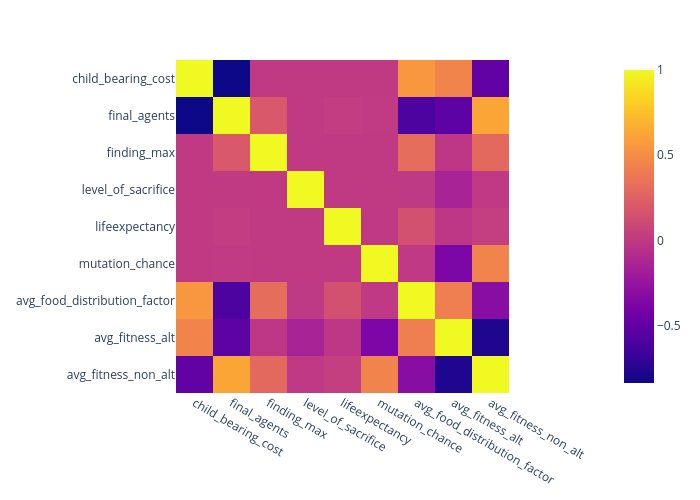
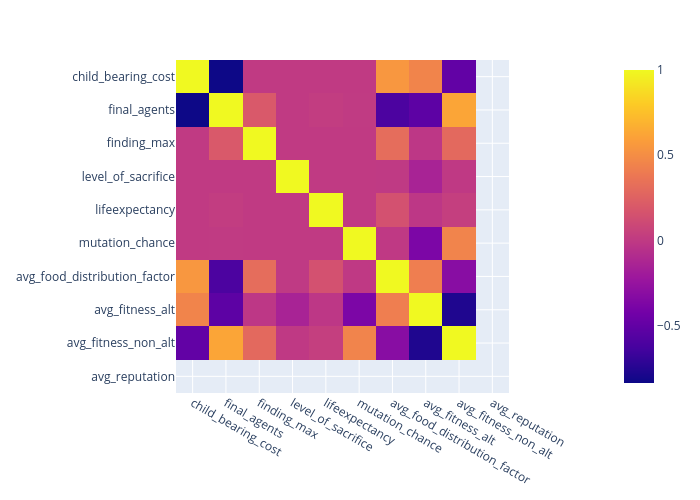
update graphs

Changed region(s): [[0.03, 0.12, 0.84, 0.96], [0.09, 0.15, 0.24, 0.18]]

diff --git a/results/simulation/network/network_analysis.tex b/results/simulation/network/network_analysis.tex
@@ -1,31 +1,40 @@
 \begin{table}[]
     \begin{tabular}{@{}lllllll@{}}
         \toprule
-                   & Step & Nodes & \begin{tabular}[c]{@{}l@{}}Avg. \\ Neighbors\end{tabular} & \begin{tabular}[c]{@{}l@{}}Characteristic \\ path length\end{tabular} & \begin{tabular}[c]{@{}l@{}}Clustering \\ coefficient\end{tabular} & Heterogeneity \\ \midrule
-        Benchmark  & 100  & 303   & 6,9                       & 4,5                       & 0,62                      & 0,39          \\
-                   & 200  & 375   & 5,7                       & 5,8                       & 0,62                      & 0,42          \\
-                   & 300  & 100   & 2,3                       & 2                         & 0,26                      & 0,5           \\
-                   & 400  & 20    & 3,6                       & 1,1                       & 0,9                       & 0,14          \\
-                   & 500  & 1     & -                         & -                         & -                         & -             \\\midrule
-        Greenbeard & 100  & 287   & 6,2                       & 5,1                       & 0,65                      & 0,41          \\
-        (no fake)  & 200  & 388   & 4,9                       & 6,8                       & 0,55                      & 0,42          \\
-                   & 300  & 380   & 5,42                      & 6,1                       & 0,57                      & 0,39          \\
-                   & 400  & 379   & 5,1                       & 6,4                       & 0,58                      & 0,41          \\
-                   & 500  & 383   & 5                         & 7                         & 0,6                       & 0,39          \\\midrule
-        Reputation & 100  & 56    & 3,1                       & 4,1                       & 0,3                       & 0,64          \\
-                   & 200  & 14    & 2,7                       & 2,7                       & 0,6                       & 0,32          \\
-                   & 300  & 6     & 2                         & 1,3                       & 0,58                      & 0,35          \\
-                   & 400  & 0     & -                         & -                         & -                         & -             \\\midrule
-        Group      & 100  & 124   & 6,2                       & 4,2                       & 0,75                      & 0,35          \\
-                   & 200  & 287   & 6,4                       & 5                         & 0,65                      & 0,39          \\
-                   & 300  & 348   & 5,1                       & 7,2                       & 0,64                      & 0,42          \\
-                   & 400  & 360   & 5                         & 7,5                       & 0,62                      & 0,38          \\
-                   & 500  & 361   & 5,4                       & 6,8                       & 0,61                      & 0,38          \\\midrule
-        Culture    & 100  & 87    & 5,6                       & 2,9                       & 0,72                      & 0,4           \\
-                   & 200  & 172   & 5,9                       & 4,6                       & 0,66                      & 0,4           \\
-                   & 300  & 386   & 4,9                       & 6,2                       & 0,52                      & 0,37          \\
-                   & 400  & 375   & 4,8                       & 6,6                       & 0,56                      & 0,37          \\
-                   & 500  & 392   & 5,2                       & 6,7                       & 0,59                      & 0,4           \\ \bottomrule
+& Step & Nodes & \begin{tabular}[c]{@{}l@{}}Avg. \\ neighbors\end{tabular} & \begin{tabular}[c]{@{}l@{}}Characteristic \\ path length\end{tabular} & \begin{tabular}[c]{@{}l@{}}Clustering \\ coefficient\end{tabular} & Heterogeneity \\ \midrule
+Benchmark      & 100  & 303   & 6.9                       & 4.5                       & 0.62                      & 0.39          \\
+& 200  & 375   & 5.7                       & 5.8                       & 0.62                      & 0.42          \\
+& 300  & 100   & 2.3                       & 2                         & 0.26                      & 0.5           \\
+& 400  & 20    & 3.6                       & 1.1                       & 0.9                       & 0.14          \\
+& 500  & 1     & -                         & -                         & -                         & -             \\\midrule
+Greenbeard     & 100  & 59    & 3.5                       & 5.4                       & 0.5                       & 0.44          \\
+(with fake)    & 200  & 2     & -                         & -                         & -                         & -             \\
+& 300  & 0     & -                         & -                         & -                         & -             \\\midrule
+Greenbeard     & 100  & 287   & 6.2                       & 5.1                       & 0.65                      & 0.41          \\
+(without fake) & 200  & 388   & 4.9                       & 6.8                       & 0.55                      & 0.42          \\
+& 300  & 380   & 5.42                      & 6.1                       & 0.57                      & 0.39          \\
+& 400  & 379   & 5.1                       & 6.4                       & 0.58                      & 0.41          \\
+& 500  & 383   & 5                         & 7                         & 0.6                       & 0.39          \\\midrule
+Kin selection  & 100  & 32    & 2.7                       & 3.9                       & 0.49                      & 0.53          \\
+& 200  & 47    & 5.3                       & 3.5                       & 0.78                      & 0.4           \\
+& 300  & 61    & 5.78                      & 3.5                       & 0.65                      & 0.45          \\
+& 400  & 116   & 5.5                       & 4.3                       & 0.63                      & 0.43          \\
+& 500  & 223   & 5.3                       & 5.2                       & 0.63                      & 0.43          \\\midrule
+Reputation     & 100  & 56    & 3.1                       & 4.1                       & 0.3                       & 0.64          \\
+& 200  & 14    & 2.7                       & 2.7                       & 0.6                       & 0.32          \\
+& 300  & 6     & 2                         & 1.3                       & 0.58                      & 0.35          \\
+& 400  & 0     & -                         & -                         & -                         & -             \\\midrule
+Group          & 100  & 124   & 6.2                       & 4.2                       & 0.75                      & 0.35          \\
+& 200  & 287   & 6.4                       & 5                         & 0.65                      & 0.39          \\
+& 300  & 348   & 5.1                       & 7.2                       & 0.64                      & 0.42          \\
+& 400  & 360   & 5                         & 7.5                       & 0.62                      & 0.38          \\
+& 500  & 361   & 5.4                       & 6.8                       & 0.61                      & 0.38          \\\midrule
+Culture        & 100  & 87    & 5.6                       & 2.9                       & 0.72                      & 0.4           \\
+& 200  & 172   & 5.9                       & 4.6                       & 0.66                      & 0.4           \\
+& 300  & 386   & 4.9                       & 6.2                       & 0.52                      & 0.37          \\
+& 400  & 375   & 4.8                       & 6.6                       & 0.56                      & 0.37          \\
+& 500  & 392   & 5.2                       & 6.7                       & 0.59                      & 0.4           \\ \bottomrule
     \end{tabular}
-    \caption[Analysis of the network characteristics of all models]{Analysis of the network characteristics of all models for the first 500 steps with $child$ $bearing$ $cost = 6$, $life$ $expectancy = (50,70)$, $mutation$ $chance = 0.05$, $finding$ $max = 3$, $level$ $of$ $sacrifice = 0.5$, $min$ $relationship = 1$, $group$ $number = 5$, and $migration$ $rate = 0.05$. }
+\caption[Network characteristics of all models]{Network characteristics of all models for the first 500 steps with $child$ $bearing$ $cost = 6$, $life$ $expectancy = (60,70)$, $mutation$ $chance = 0.05$, $finding$ $max = 3$, $level$ $of$ $sacrifice = 0.5$, $min$ $relationship = 1$, $group$ $number = 5$, and $migration$ $rate = 0.05$. The term \textit{average neighbors} indicates the average connectivity of a node in the network. \textit{Characteristic path length} gives the expected distance between two connected nodes. The \textit{clustering coefficient} is the average of the clustering coefficients for all nodes in the network. The \textit{heterogeneity} reflects the tendency of a network to contain hub nodes. \cite{NetworkAnalyzer.18.05.2018}}
+\label{tab:network-analysis}
 \end{table}

diff --git a/results/simulation/culture/correlations/correlations.tex b/results/simulation/culture/correlations/correlations.tex
@@ -1,18 +1,17 @@
-\begin{tabular}{lllllllllllll}
+\begin{tabular}{llllllllllll}
 \toprule
-{} &       cbc &        fa &        fm &        gn &       los &        l &       mr &       mc &      afdf &       afa &      afna &      ar \\
+{} &       cbc &        fa &        fm &        gn &       los &        l &       mr &       mc &      afdf &       afa &      afna  \\
 \midrule
-child\_bearing\_cost (cbc)            &    1.0*** &  -0.66*** &       0.0 &       0.0 &      -0.0 &     -0.0 &      0.0 &     -0.0 &   0.78*** &    0.1*** &      0.02 &     nan \\
-final\_agents (fa)                   &  -0.66*** &    1.0*** &   0.47*** &  -0.04*** &      0.01 &  0.14*** &  0.04*** &      0.0 &  -0.81*** &   0.29*** &   0.34*** &     nan \\
-finding\_max (fm)                    &       0.0 &   0.47*** &    1.0*** &       0.0 &       0.0 &      0.0 &     -0.0 &      0.0 &  -0.27*** &   0.56*** &   0.36*** &     nan \\
-group\_number (gn)                   &       0.0 &  -0.04*** &       0.0 &    1.0*** &       0.0 &      0.0 &      0.0 &      0.0 &   0.04*** &  -0.06*** &  -0.04*** &     nan \\
-level\_of\_sacrifice (los)            &      -0.0 &      0.01 &       0.0 &       0.0 &    1.0*** &      0.0 &      0.0 &      0.0 &  -0.05*** &   0.05*** &      0.02 &     nan \\
-lifeexpectancy (l)                  &      -0.0 &   0.14*** &       0.0 &       0.0 &       0.0 &   1.0*** &     -0.0 &      0.0 &       0.0 &   0.07*** &   0.08*** &     nan \\
-migration\_rate (mr)                 &       0.0 &   0.04*** &      -0.0 &       0.0 &       0.0 &     -0.0 &   1.0*** &      0.0 &   -0.03** &   0.07*** &    0.04** &     nan \\
-mutation\_chance (mc)                &      -0.0 &       0.0 &       0.0 &       0.0 &       0.0 &      0.0 &      0.0 &   1.0*** &   0.05*** &     -0.02 &   0.42*** &     nan \\
-avg\_food\_distribution\_factor (afdf) &   0.78*** &  -0.81*** &  -0.27*** &   0.04*** &  -0.05*** &      0.0 &  -0.03** &  0.05*** &    1.0*** &   -0.1*** &  -0.06*** &     nan \\
-avg\_fitness\_alt (afa)               &    0.1*** &   0.29*** &   0.56*** &  -0.06*** &   0.05*** &  0.07*** &  0.07*** &    -0.02 &   -0.1*** &    1.0*** &   0.29*** &     nan \\
-avg\_fitness\_non\_alt (afna)          &      0.02 &   0.34*** &   0.36*** &  -0.04*** &      0.02 &  0.08*** &   0.04** &  0.42*** &  -0.06*** &   0.29*** &    1.0*** &     nan \\
-avg\_reputation (ar)                 &       nan &       nan &       nan &       nan &       nan &      nan &      nan &      nan &       nan &       nan &       nan &  nan*** \\
+child\_bearing\_cost (cbc)            &    1.0*** &  -0.66*** &       0.0 &       0.0 &      -0.0 &     -0.0 &      0.0 &     -0.0 &   0.78*** &    0.1*** &      0.02  \\
+final\_agents (fa)                   &  -0.66*** &    1.0*** &   0.47*** &  -0.04*** &      0.01 &  0.14*** &  0.04*** &      0.0 &  -0.81*** &   0.29*** &   0.34***  \\
+finding\_max (fm)                    &       0.0 &   0.47*** &    1.0*** &       0.0 &       0.0 &      0.0 &     -0.0 &      0.0 &  -0.27*** &   0.56*** &   0.36***  \\
+group\_number (gn)                   &       0.0 &  -0.04*** &       0.0 &    1.0*** &       0.0 &      0.0 &      0.0 &      0.0 &   0.04*** &  -0.06*** &  -0.04***  \\
+level\_of\_sacrifice (los)            &      -0.0 &      0.01 &       0.0 &       0.0 &    1.0*** &      0.0 &      0.0 &      0.0 &  -0.05*** &   0.05*** &      0.02  \\
+lifeexpectancy (l)                  &      -0.0 &   0.14*** &       0.0 &       0.0 &       0.0 &   1.0*** &     -0.0 &      0.0 &       0.0 &   0.07*** &   0.08***  \\
+migration\_rate (mr)                 &       0.0 &   0.04*** &      -0.0 &       0.0 &       0.0 &     -0.0 &   1.0*** &      0.0 &   -0.03** &   0.07*** &    0.04**  \\
+mutation\_chance (mc)                &      -0.0 &       0.0 &       0.0 &       0.0 &       0.0 &      0.0 &      0.0 &   1.0*** &   0.05*** &     -0.02 &   0.42***  \\
+avg\_food\_distribution\_factor (afdf) &   0.78*** &  -0.81*** &  -0.27*** &   0.04*** &  -0.05*** &      0.0 &  -0.03** &  0.05*** &    1.0*** &   -0.1*** &  -0.06***  \\
+avg\_fitness\_alt (afa)               &    0.1*** &   0.29*** &   0.56*** &  -0.06*** &   0.05*** &  0.07*** &  0.07*** &    -0.02 &   -0.1*** &    1.0*** &   0.29***  \\
+avg\_fitness\_non\_alt (afna)          &      0.02 &   0.34*** &   0.36*** &  -0.04*** &      0.02 &  0.08*** &   0.04** &  0.42*** &  -0.06*** &   0.29*** &    1.0***  \\
 \bottomrule
 \end{tabular}

diff --git a/results/simulation/group/correlations/correlations.tex b/results/simulation/group/correlations/correlations.tex
@@ -1,18 +1,17 @@
-\begin{tabular}{lllllllllllll}
+\begin{tabular}{llllllllllll}
 \toprule
-{} &       cbc &        fa &        fm &       gn &       los &        l &      mr &       mc &      afdf &       afa &      afna &      ar \\
+{} &       cbc &        fa &        fm &       gn &       los &        l &      mr &       mc &      afdf &       afa &      afna  \\
 \midrule
-child\_bearing\_cost (cbc)            &    1.0*** &  -0.65*** &      -0.0 &     -0.0 &       0.0 &     -0.0 &     0.0 &     -0.0 &   0.79*** &    0.1*** &   0.04*** &     nan \\
-final\_agents (fa)                   &  -0.65*** &    1.0*** &    0.5*** &    -0.02 &      0.01 &  0.14*** &    0.02 &     -0.0 &  -0.81*** &   0.32*** &   0.34*** &     nan \\
-finding\_max (fm)                    &      -0.0 &    0.5*** &    1.0*** &     -0.0 &      -0.0 &     -0.0 &     0.0 &      0.0 &  -0.26*** &    0.6*** &   0.37*** &     nan \\
-group\_number (gn)                   &      -0.0 &     -0.02 &      -0.0 &   1.0*** &       0.0 &      0.0 &     0.0 &     -0.0 &      0.02 &   -0.04** &     -0.02 &     nan \\
-level\_of\_sacrifice (los)            &       0.0 &      0.01 &      -0.0 &      0.0 &    1.0*** &      0.0 &    -0.0 &     -0.0 &  -0.05*** &   0.07*** &      0.02 &     nan \\
-lifeexpectancy (l)                  &      -0.0 &   0.14*** &      -0.0 &      0.0 &       0.0 &   1.0*** &     0.0 &     -0.0 &      0.01 &   0.09*** &   0.08*** &     nan \\
-migration\_rate (mr)                 &       0.0 &      0.02 &       0.0 &      0.0 &      -0.0 &      0.0 &  1.0*** &     -0.0 &     -0.01 &     0.03* &      0.02 &     nan \\
-mutation\_chance (mc)                &      -0.0 &      -0.0 &       0.0 &     -0.0 &      -0.0 &     -0.0 &    -0.0 &   1.0*** &   0.06*** &     -0.02 &   0.43*** &     nan \\
-avg\_food\_distribution\_factor (afdf) &   0.79*** &  -0.81*** &  -0.26*** &     0.02 &  -0.05*** &     0.01 &   -0.01 &  0.06*** &    1.0*** &  -0.07*** &  -0.04*** &     nan \\
-avg\_fitness\_alt (afa)               &    0.1*** &   0.32*** &    0.6*** &  -0.04** &   0.07*** &  0.09*** &   0.03* &    -0.02 &  -0.07*** &    1.0*** &    0.3*** &     nan \\
-avg\_fitness\_non\_alt (afna)          &   0.04*** &   0.34*** &   0.37*** &    -0.02 &      0.02 &  0.08*** &    0.02 &  0.43*** &  -0.04*** &    0.3*** &    1.0*** &     nan \\
-avg\_reputation (ar)                 &       nan &       nan &       nan &      nan &       nan &      nan &     nan &      nan &       nan &       nan &       nan &  nan*** \\
+child\_bearing\_cost (cbc)            &    1.0*** &  -0.65*** &      -0.0 &     -0.0 &       0.0 &     -0.0 &     0.0 &     -0.0 &   0.79*** &    0.1*** &   0.04***  \\
+final\_agents (fa)                   &  -0.65*** &    1.0*** &    0.5*** &    -0.02 &      0.01 &  0.14*** &    0.02 &     -0.0 &  -0.81*** &   0.32*** &   0.34***  \\
+finding\_max (fm)                    &      -0.0 &    0.5*** &    1.0*** &     -0.0 &      -0.0 &     -0.0 &     0.0 &      0.0 &  -0.26*** &    0.6*** &   0.37***  \\
+group\_number (gn)                   &      -0.0 &     -0.02 &      -0.0 &   1.0*** &       0.0 &      0.0 &     0.0 &     -0.0 &      0.02 &   -0.04** &     -0.02  \\
+level\_of\_sacrifice (los)            &       0.0 &      0.01 &      -0.0 &      0.0 &    1.0*** &      0.0 &    -0.0 &     -0.0 &  -0.05*** &   0.07*** &      0.02  \\
+lifeexpectancy (l)                  &      -0.0 &   0.14*** &      -0.0 &      0.0 &       0.0 &   1.0*** &     0.0 &     -0.0 &      0.01 &   0.09*** &   0.08***  \\
+migration\_rate (mr)                 &       0.0 &      0.02 &       0.0 &      0.0 &      -0.0 &      0.0 &  1.0*** &     -0.0 &     -0.01 &     0.03* &      0.02  \\
+mutation\_chance (mc)                &      -0.0 &      -0.0 &       0.0 &     -0.0 &      -0.0 &     -0.0 &    -0.0 &   1.0*** &   0.06*** &     -0.02 &   0.43***  \\
+avg\_food\_distribution\_factor (afdf) &   0.79*** &  -0.81*** &  -0.26*** &     0.02 &  -0.05*** &     0.01 &   -0.01 &  0.06*** &    1.0*** &  -0.07*** &  -0.04***  \\
+avg\_fitness\_alt (afa)               &    0.1*** &   0.32*** &    0.6*** &  -0.04** &   0.07*** &  0.09*** &   0.03* &    -0.02 &  -0.07*** &    1.0*** &    0.3***  \\
+avg\_fitness\_non\_alt (afna)          &   0.04*** &   0.34*** &   0.37*** &    -0.02 &      0.02 &  0.08*** &    0.02 &  0.43*** &  -0.04*** &    0.3*** &    1.0***  \\
 \bottomrule
 \end{tabular}

diff --git a/results/simulation/greenbeard/correlations/correlations.tex b/results/simulation/greenbeard/correlations/correlations.tex
@@ -1,17 +1,16 @@
-\begin{tabular}{llllllllllll}
+\begin{tabular}{lllllllllll}
     \toprule
-    {}                                     & afg      & cbc      & fa       & fm       & los      & l       & mc       & afdf     & afa      & afna     & ar     \\
+    {}                                     & afg      & cbc      & fa       & fm       & los      & l       & mc       & afdf     & afa      & afna          \\
     \midrule
-    allow\_fake\_greenbeards (afg)         & 1.0***   & -0.0     & -0.17*** & -0.0     & 0.0      & -0.0    & 0.0      & 0.41***  & -0.26*** & -0.26*** & nan    \\
-    child\_bearing\_cost (cbc)             & -0.0     & 1.0***   & -0.73*** & -0.0     & 0.0      & 0.0     & 0.0      & 0.53***  & 0.32***  & 0.1***   & nan    \\
-    final\_agents (fa)                     & -0.17*** & -0.73*** & 1.0***   & 0.35***  & 0.0      & 0.07*** & -0.0     & -0.6***  & -0.32*** & 0.22***  & nan    \\
-    finding\_max (fm)                      & -0.0     & -0.0     & 0.35***  & 1.0***   & 0.0      & 0.0     & 0.0      & -0.18*** & -0.01    & 0.25***  & nan    \\
-    level\_of\_sacrifice (los)             & 0.0      & 0.0      & 0.0      & 0.0      & 1.0***   & 0.0     & -0.0     & -0.03**  & -0.09*** & 0.01     & nan    \\
-    lifeexpectancy (l)                     & -0.0     & 0.0      & 0.07***  & 0.0      & 0.0      & 1.0***  & 0.0      & 0.08***  & -0.01    & 0.1***   & nan    \\
-    mutation\_chance (mc)                  & 0.0      & 0.0      & -0.0     & 0.0      & -0.0     & 0.0     & 1.0***   & 0.02*    & -0.26*** & 0.27***  & nan    \\
-    avg\_food\_distribution\_factor (afdf) & 0.41***  & 0.53***  & -0.6***  & -0.18*** & -0.03**  & 0.08*** & 0.02*    & 1.0***   & -0.04**  & -0.05***  & nan    \\
-    avg\_fitness\_alt (afa)                & -0.26*** & 0.32***  & -0.32*** & -0.01    & -0.09*** & -0.01   & -0.26*** & -0.04**  & 1.0***   & 0.07***  & nan    \\
-    avg\_fitness\_non\_alt (afna)          & -0.26*** & 0.1***   & 0.22***  & 0.25***  & 0.01     & 0.1***  & 0.27***  & -0.05*** & 0.07***  & 1.0***   & nan    \\
-    avg\_reputation (ar)                   & nan      & nan      & nan      & nan      & nan      & nan     & nan      & nan      & nan      & nan      & nan*** \\
+    allow\_fake\_greenbeards (afg)         & 1.0***   & -0.0     & -0.17*** & -0.0     & 0.0      & -0.0    & 0.0      & 0.41***  & -0.26*** & -0.26***     \\
+    child\_bearing\_cost (cbc)             & -0.0     & 1.0***   & -0.73*** & -0.0     & 0.0      & 0.0     & 0.0      & 0.53***  & 0.32***  & 0.1***       \\
+    final\_agents (fa)                     & -0.17*** & -0.73*** & 1.0***   & 0.35***  & 0.0      & 0.07*** & -0.0     & -0.6***  & -0.32*** & 0.22***      \\
+    finding\_max (fm)                      & -0.0     & -0.0     & 0.35***  & 1.0***   & 0.0      & 0.0     & 0.0      & -0.18*** & -0.01    & 0.25***      \\
+    level\_of\_sacrifice (los)             & 0.0      & 0.0      & 0.0      & 0.0      & 1.0***   & 0.0     & -0.0     & -0.03**  & -0.09*** & 0.01         \\
+    lifeexpectancy (l)                     & -0.0     & 0.0      & 0.07***  & 0.0      & 0.0      & 1.0***  & 0.0      & 0.08***  & -0.01    & 0.1***       \\
+    mutation\_chance (mc)                  & 0.0      & 0.0      & -0.0     & 0.0      & -0.0     & 0.0     & 1.0***   & 0.02*    & -0.26*** & 0.27***      \\
+    avg\_food\_distribution\_factor (afdf) & 0.41***  & 0.53***  & -0.6***  & -0.18*** & -0.03**  & 0.08*** & 0.02*    & 1.0***   & -0.04**  & -0.05***      \\
+    avg\_fitness\_alt (afa)                & -0.26*** & 0.32***  & -0.32*** & -0.01    & -0.09*** & -0.01   & -0.26*** & -0.04**  & 1.0***   & 0.07***      \\
+    avg\_fitness\_non\_alt (afna)          & -0.26*** & 0.1***   & 0.22***  & 0.25***  & 0.01     & 0.1***  & 0.27***  & -0.05*** & 0.07***  & 1.0***       \\
     \bottomrule
 \end{tabular}

diff --git a/results/simulation/kinselection/correlations/correlations.tex b/results/simulation/kinselection/correlations/correlations.tex
@@ -1,17 +1,16 @@
-\begin{tabular}{llllllllllll}
+\begin{tabular}{lllllllllll}
     \toprule
-    {}                                     & cbc      & fa       & fm      & los      & l       & mr      & mc       & afdf     & afa      & afna     & ar     \\
+{}                                     & cbc      & fa       & fm      & los      & l       & mr      & mc       & afdf     & afa      & afna          \\
     \midrule
-    child\_bearing\_cost (cbc)             & 1.0***   & -0.78*** & -0.0    & 0.0      & -0.0    & -0.0    & 0.0      & 0.5***   & 0.33***  & -0.03*** & nan    \\
-    final\_agents (fa)                     & -0.78*** & 1.0***   & 0.32*** & -0.01    & 0.12*** & -0.01   & -0.0     & -0.52*** & -0.35*** & 0.25***  & nan    \\
-    finding\_max (fm)                      & -0.0     & 0.32***  & 1.0***  & 0.0      & -0.0    & 0.0     & -0.0     & 0.34***  & 0.14***  & 0.27***  & nan    \\
-    level\_of\_sacrifice (los)             & 0.0      & -0.01    & 0.0     & 1.0***   & -0.0    & 0.0     & 0.0      & -0.0     & -0.04*** & -0.02*   & nan    \\
-    lifeexpectancy (l)                     & -0.0     & 0.12***  & -0.0    & -0.0     & 1.0***  & -0.0    & 0.0      & 0.06***  & -0.1***  & 0.1***   & nan    \\
-    min\_relationship (mr)                 & -0.0     & -0.01    & 0.0     & 0.0      & -0.0    & 1.0***  & 0.0      & 0.06***  & 0.14***  & 0.04***  & nan    \\
-    mutation\_chance (mc)                  & 0.0      & -0.0     & -0.0    & 0.0      & 0.0     & 0.0     & 1.0***   & -0.01    & -0.23*** & -0.08*** & nan    \\
-    avg\_food\_distribution\_factor (afdf) & 0.5***   & -0.52*** & 0.34*** & -0.0     & 0.06*** & 0.06*** & -0.01    & 1.0***   & 0.47***  & 0.15***  & nan    \\
-    avg\_fitness\_alt (afa)                & 0.33***  & -0.35*** & 0.14*** & -0.04*** & -0.1*** & 0.14*** & -0.23*** & 0.47***  & 1.0***   & 0.04***  & nan    \\
-    avg\_fitness\_non\_alt (afna)          & -0.03*** & 0.25***  & 0.27*** & -0.02*   & 0.1***  & 0.04*** & -0.08*** & 0.15***  & 0.04***  & 1.0***   & nan    \\
-    avg\_reputation (ar)                   & nan      & nan      & nan     & nan      & nan     & nan     & nan      & nan      & nan      & nan      & nan*** \\
+child\_bearing\_cost (cbc)             & 1.0***   & -0.78*** & -0.0    & 0.0      & -0.0    & -0.0    & 0.0      & 0.5***   & 0.33***  & -0.03***     \\
+final\_agents (fa)                     & -0.78*** & 1.0***   & 0.32*** & -0.01    & 0.12*** & -0.01   & -0.0     & -0.52*** & -0.35*** & 0.25***      \\
+finding\_max (fm)                      & -0.0     & 0.32***  & 1.0***  & 0.0      & -0.0    & 0.0     & -0.0     & 0.34***  & 0.14***  & 0.27***      \\
+level\_of\_sacrifice (los)             & 0.0      & -0.01    & 0.0     & 1.0***   & -0.0    & 0.0     & 0.0      & -0.0     & -0.04*** & -0.02*       \\
+lifeexpectancy (l)                     & -0.0     & 0.12***  & -0.0    & -0.0     & 1.0***  & -0.0    & 0.0      & 0.06***  & -0.1***  & 0.1***       \\
+min\_relationship (mr)                 & -0.0     & -0.01    & 0.0     & 0.0      & -0.0    & 1.0***  & 0.0      & 0.06***  & 0.14***  & 0.04***      \\
+mutation\_chance (mc)                  & 0.0      & -0.0     & -0.0    & 0.0      & 0.0     & 0.0     & 1.0***   & -0.01    & -0.23*** & -0.08***     \\
+avg\_food\_distribution\_factor (afdf) & 0.5***   & -0.52*** & 0.34*** & -0.0     & 0.06*** & 0.06*** & -0.01    & 1.0***   & 0.47***  & 0.15***      \\
+avg\_fitness\_alt (afa)                & 0.33***  & -0.35*** & 0.14*** & -0.04*** & -0.1*** & 0.14*** & -0.23*** & 0.47***  & 1.0***   & 0.04***      \\
+avg\_fitness\_non\_alt (afna)          & -0.03*** & 0.25***  & 0.27*** & -0.02*   & 0.1***  & 0.04*** & -0.08*** & 0.15***  & 0.04***  & 1.0***       \\
     \bottomrule
 \end{tabular}

diff --git a/results/simulation/reputation/correlations/correlations.tex b/results/simulation/reputation/correlations/correlations.tex
@@ -1,16 +1,16 @@
 \begin{tabular}{lllllllllll}
-  \toprule
-  {}                                     & cbc      & fa       & fm      & los    & l        & mc      & afdf     & afa      & afna     & ar       \\
-  \midrule
-  child\_bearing\_cost (cbc)             & 1.0***   & -0.81*** & 0.0     & 0.0    & 0.0      & 0.0     & -0.15*** & -0.07*** & -0.42*** & -0.59*** \\
-  final\_agents (fa)                     & -0.81*** & 1.0***   & 0.28*** & -0.0   & 0.08***  & 0.0     & 0.17***  & 0.16***  & 0.48***  & 0.79***  \\
-  finding\_max (fm)                      & 0.0      & 0.28***  & 1.0***  & -0.0   & -0.0     & -0.0    & -0.2***  & 0.26***  & 0.08***  & 0.4***   \\
-  level\_of\_sacrifice (los)             & 0.0      & -0.0     & -0.0    & 1.0*** & 0.0      & 0.0     & 0.02     & 0.01     & -0.02    & 0.03     \\
-  lifeexpectancy (l)                     & 0.0      & 0.08***  & -0.0    & 0.0    & 1.0***   & -0.0    & -0.26*** & -0.13*** & -0.15*** & 0.26***  \\
-  mutation\_chance (mc)                  & 0.0      & 0.0      & -0.0    & 0.0    & -0.0     & 1.0***  & -0.04*   & 0.13***  & 0.36***  & 0.07***  \\
-  avg\_food\_distribution\_factor (afdf) & -0.15*** & 0.17***  & -0.2*** & 0.02   & -0.26*** & -0.04*  & 1.0***   & -0.01    & 0.31***  & 0.02     \\
-  avg\_fitness\_alt (afa)                & -0.07*** & 0.16***  & 0.26*** & 0.01   & -0.13*** & 0.13*** & -0.01    & 1.0***   & -0.03    & 0.44***  \\
-  avg\_fitness\_non\_alt (afna)          & -0.42*** & 0.48***  & 0.08*** & -0.02  & -0.15*** & 0.36*** & 0.31***  & -0.03    & 1.0***   & 0.26***  \\
-  avg\_reputation (ar)                   & -0.59*** & 0.79***  & 0.4***  & 0.03   & 0.26***  & 0.07*** & 0.02     & 0.44***  & 0.26***  & 1.0***   \\
-  \bottomrule
+\toprule
+{} &       cbc &        fa &       fm &     los &         l &       mc &      afdf &       afa &      afna &        ar \\
+\midrule
+child\_bearing\_cost (cbc)            &    1.0*** &  -0.81*** &     -0.0 &     0.0 &       0.0 &      0.0 &  -0.15*** &  -0.07*** &  -0.42*** &  -0.59*** \\
+final\_agents (fa)                   &  -0.81*** &    1.0*** &  0.28*** &    -0.0 &   0.08*** &      0.0 &   0.17*** &   0.16*** &   0.48*** &   0.79*** \\
+finding\_max (fm)                    &      -0.0 &   0.28*** &   1.0*** &    -0.0 &       0.0 &      0.0 &   -0.2*** &   0.26*** &   0.08*** &    0.4*** \\
+level\_of\_sacrifice (los)            &       0.0 &      -0.0 &     -0.0 &  1.0*** &       0.0 &     -0.0 &      0.02 &      0.01 &     -0.02 &      0.03 \\
+lifeexpectancy (l)                  &       0.0 &   0.08*** &      0.0 &     0.0 &    1.0*** &      0.0 &  -0.26*** &  -0.13*** &  -0.15*** &   0.26*** \\
+mutation\_chance (mc)                &       0.0 &       0.0 &      0.0 &    -0.0 &       0.0 &   1.0*** &    -0.04* &   0.13*** &   0.36*** &   0.07*** \\
+avg\_food\_distribution\_factor (afdf) &  -0.15*** &   0.17*** &  -0.2*** &    0.02 &  -0.26*** &   -0.04* &    1.0*** &     -0.01 &   0.31*** &      0.02 \\
+avg\_fitness\_alt (afa)               &  -0.07*** &   0.16*** &  0.26*** &    0.01 &  -0.13*** &  0.13*** &     -0.01 &    1.0*** &     -0.03 &   0.44*** \\
+avg\_fitness\_non\_alt (afna)          &  -0.42*** &   0.48*** &  0.08*** &   -0.02 &  -0.15*** &  0.36*** &   0.31*** &     -0.03 &    1.0*** &   0.26*** \\
+avg\_reputation (ar)                 &  -0.59*** &   0.79*** &   0.4*** &    0.03 &   0.26*** &  0.07*** &      0.02 &   0.44*** &   0.26*** &    1.0*** \\
+\bottomrule
 \end{tabular}
